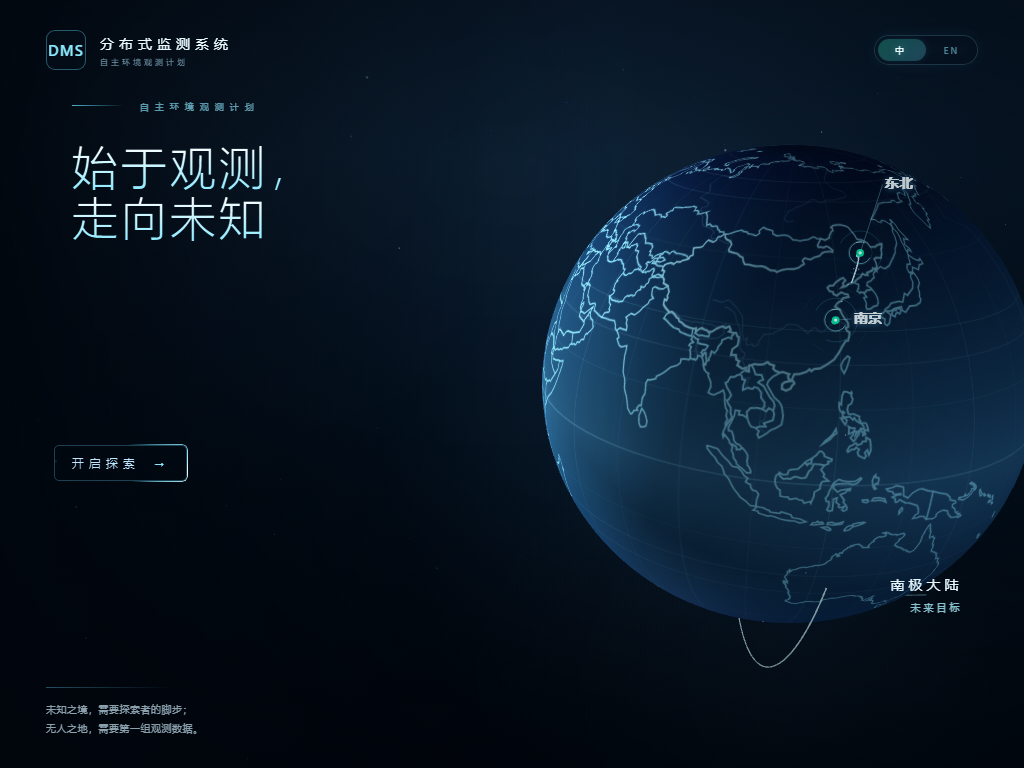
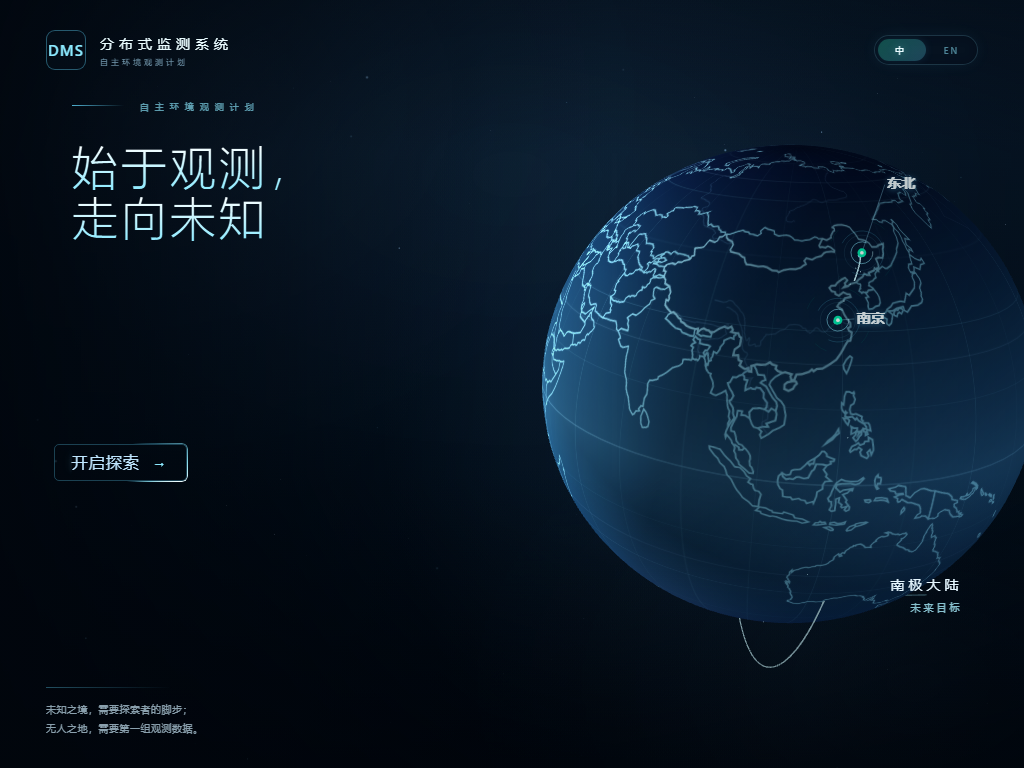
optimize dashboard status display

diff --git a/index.html b/index.html
@@ -95,19 +95,24 @@
     .hero .btn-ghost{display:block;height:calc(9vh + 36px)}
     .hero .btn::after{content:"";position:absolute;inset:-2px 0 2px -18px;border:1px solid rgba(98,217,255,.28);border-radius:5px;pointer-events:none;transition:border-color .3s ease}
     .hero .btn::before{content:"";position:absolute;inset:-3px -1px 1px -19px;border-radius:6px;padding:1px;background:conic-gradient(from var(--flow-angle),rgba(98,217,255,0) 0 62%,rgba(98,217,255,.32) 70%,rgba(150,238,255,.92) 78%,#f0fdff 83%,rgba(150,238,255,.82) 87%,rgba(98,217,255,.26) 93%,rgba(98,217,255,0) 98%);-webkit-mask:linear-gradient(#000 0 0) content-box,linear-gradient(#000 0 0);-webkit-mask-composite:xor;mask:linear-gradient(#000 0 0) content-box,linear-gradient(#000 0 0);mask-composite:exclude;animation:flowBorder 2.8s linear infinite;pointer-events:none}
-    .hero .btn .btn-txt{color:#bfe6ff;background-image:linear-gradient(90deg,#bfe6ff 0%,#bfe6ff 30%,#d3f0ff 36%,#eafcff 42%,#f6feff 46%,#ffffff 50%,#f6feff 54%,#eafcff 58%,#d3f0ff 64%,#bfe6ff 70%,#bfe6ff 100%);background-size:220% 100%;background-position:130% 0;-webkit-background-clip:text;background-clip:text;-webkit-text-fill-color:transparent;animation:txtSweep 3.2s linear infinite}
+    .hero .btn .btn-txt{position:relative;display:inline-block;color:#bfe6ff;-webkit-text-fill-color:#bfe6ff;font-size:16px;line-height:1;letter-spacing:1px}
+    html[data-lang="en"] .hero .btn .btn-txt{letter-spacing:3px}
+    .hero .btn .btn-txt .explore-base{display:inline-block;animation:txtPreheat 2.8s linear infinite}
+    .hero .btn .btn-txt .explore-shine{position:absolute;inset:0;color:#f4fdff;-webkit-text-fill-color:#f4fdff;text-shadow:0 0 5px rgba(150,235,255,.65),0 0 12px rgba(120,220,255,.4);clip-path:inset(-0.4em 100% -0.4em -2.5em);animation:txtSweep 2.8s linear infinite;pointer-events:none}
     .hero .btn b{color:#8ceaff;font-weight:400;margin-left:14px;display:inline-block;transition:transform .3s ease,color .3s ease}
     .hero .btn:hover{filter:brightness(1.15)}
     .hero .btn:hover b{color:#e8fbff;transform:translateX(4px)}
     .hero .btn:hover::after{border-color:rgba(150,240,255,.55)}
     .hero .btn:hover::before{animation-duration:2s}
-    .hero .btn:hover .btn-txt{animation-duration:2.2s}
+    .hero .btn:hover .btn-txt .explore-shine{animation-duration:2.2s}
+    .hero .btn:hover .btn-txt .explore-base{animation-duration:2.2s}
     .hero .btn:active{filter:brightness(1.4)}
     .hero .btn:focus-visible{outline:1px solid rgba(140,234,255,.75);outline-offset:10px;border-radius:4px}
     .home-page.loaded .hero .btn{opacity:1;transform:none;transition:opacity 1s ease .85s,transform 1s ease .85s,filter .3s ease}
     @property --flow-angle{syntax:'<angle>';inherits:false;initial-value:0deg}
     @keyframes flowBorder{to{--flow-angle:360deg}}
-    @keyframes txtSweep{0%,56%{background-position:130% 0}84%,100%{background-position:-40% 0}}
+    @keyframes txtSweep{0%,58%{clip-path:inset(-0.4em 100% -0.4em -2.5em)}90%,100%{clip-path:inset(-0.4em -2.5em -0.4em 100%)}}
+    @keyframes txtPreheat{0%,54%{filter:brightness(1)}57%{filter:brightness(1.1)}61%{filter:brightness(1)}90%,100%{filter:brightness(1)}}
 
     /* V49.41 · 恢复“未知之境”原始左下角位置（依据 git HEAD：position:fixed;left:46px;bottom:34px） */
     .manifesto{position:fixed;left:46px;bottom:34px;z-index:12;max-width:480px;pointer-events:none;opacity:0;transition:opacity 1.2s ease 1.05s}
@@ -199,7 +204,7 @@
       </h1>
       <div class="btn-ghost" aria-hidden="true"></div>
       <button type="button" class="btn" id="exploreBtn">
-        <span class="btn-txt" data-lang="en">Start Exploration</span><span class="btn-txt" data-lang="zh">开启探索</span><b>→</b>
+        <span class="btn-txt" data-lang="en"><span class="explore-base">Start Exploration</span><span class="explore-shine" aria-hidden="true">Start Exploration</span></span><span class="btn-txt" data-lang="zh"><span class="explore-base">开启探索</span><span class="explore-shine" aria-hidden="true">开启探索</span></span><b>→</b>
       </button>
     </div>
   </section>
